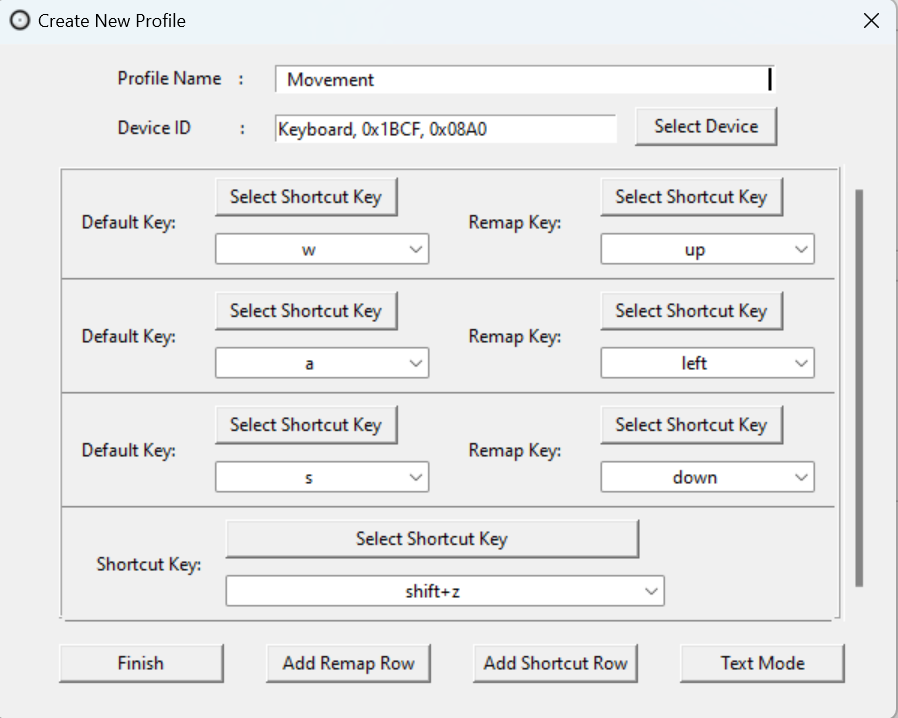
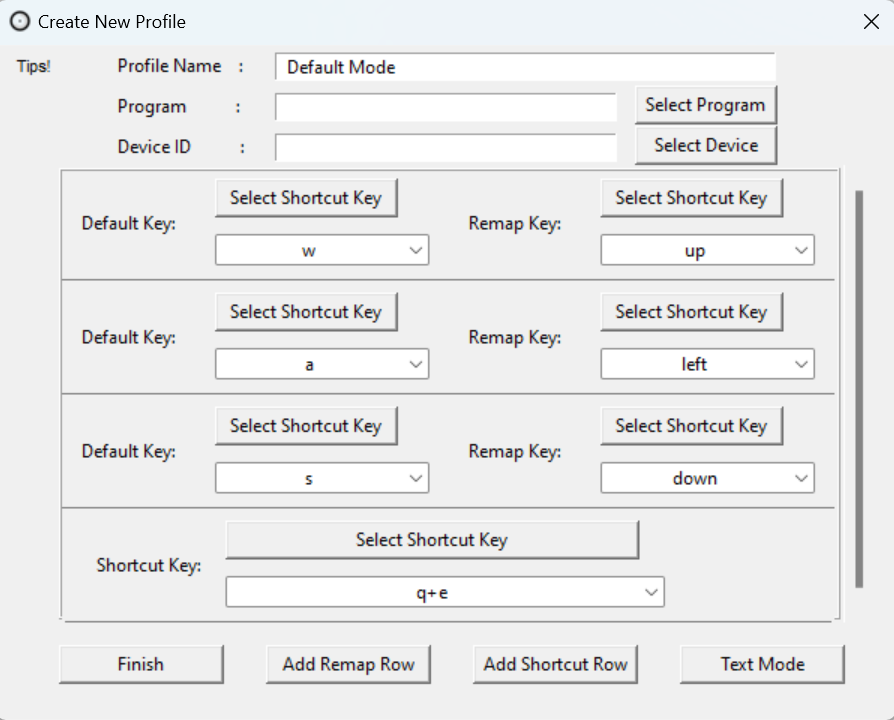
Update 2025-01-04

diff --git a/introduction/features/index.html b/introduction/features/index.html
@@ -408,8 +408,72 @@
 </div>
 
         
+        <div class="l-post__toc toc" aria-labelledby="toc-title">
+            <section class="toc" aria-labelledby="toc-title">
+                <h3 class="toc__title" id="toc-title">On this page</h3>
+                <nav class="toc__navigation"><nav class="toc" >
+        <ol><li><a href="#key-features">Key Features</a></li><li><a href="#additional-feature">Additional Feature</a></li></ol>
+      </nav></nav>
+            </section>
+        </div>
+        
         <div class="l-post__content post-content">
             <p>KeyTik comes packed with a wide range of features to give you ultimate control over your profiles and input. Here is KeyTik features:</p>
+<h2 id="key-features" tabindex="-1">Key Features <a class="anchor" href="#key-features">#</a></h2>
+<p>Below is KeyTik key features that make KeyTik different than another automation tool:</p>
+<table>
+<thead>
+<tr>
+<th><strong>No</strong></th>
+<th><strong>Feature</strong></th>
+<th><strong>Description</strong></th>
+</tr>
+</thead>
+<tbody>
+<tr>
+<td>1</td>
+<td><strong>Multiple Keyboard Remap Profile</strong></td>
+<td>Not like most of keyboard remapper, KeyTik can handle multiple keyboard remap. You don't have to set remap again when you need to use another remap then set it back again after done. Just create multiple remap and activate or deactivate it whenever you want.</td>
+</tr>
+<tr>
+<td>1</td>
+<td><strong>Advance Keyboard Remap</strong></td>
+<td>Keyboard remap not only able to remap single key but also key combination and text or typing (Example: Clicking 's' will type 'Select&quot;).</td>
+</tr>
+<tr>
+<td>2</td>
+<td><strong>Assign Script or Remap Profile to Specific Keyboard or Mouse Using Device VID &amp; PID or Device Handle</strong></td>
+<td>Make script or remap profile to only work for specific physical keyboard or mouse using device VID &amp; PID or device handle as identifier.</td>
+</tr>
+<tr>
+<td>3</td>
+<td><strong>Assign Script or Remap Profile to Specific Programs Using Class or Process</strong></td>
+<td>Make script or remap profile to only work for specific programs class, like specific Chrome tab or entire program.</td>
+</tr>
+<tr>
+<td>3</td>
+<td><strong>Auto Clicker</strong></td>
+<td>KeyTik comes with Auto Clicker in the download. On default, it simulate 'left click' when 'e' is held. You can change the 'left click', 'e', interval part to your preference.</td>
+</tr>
+<tr>
+<td>4</td>
+<td><strong>Screen Clicker</strong></td>
+<td>KeyTik also comes with Screen Clicker in the download. It work with simulate 'left click' on specific screen coordinate. You can change coordinate and interval to your preference. Don't worry because KeyTik also comes with tool to find screen coordinate then it will automatically copy coordinate and you can paste it to screen clicker in text mode, see point 16.</td>
+</tr>
+<tr>
+<td>5</td>
+<td><strong>Screen Coordinate Auto Detect And Copy</strong></td>
+<td>To make screen clicker editing easier, KeyTik also comes with coordinate finder. On default, you just need to press 'space' then it will show coordinate and automatically copy it. You can also change 'space' part to your preference.</td>
+</tr>
+<tr>
+<td>6</td>
+<td><strong>Multiple Files Opener</strong></td>
+<td>Multiple files opener also comes with KeyTik download. It work with, if you click key or key combination, then it will open the files. You can change the files with your files or programs path to your preference.</td>
+</tr>
+</tbody>
+</table>
+<h2 id="additional-feature" tabindex="-1">Additional Feature <a class="anchor" href="#additional-feature">#</a></h2>
+<p>Below is another KeyTik feature to increase user experience and give ultimate control over each profiles:</p>
 <table>
 <thead>
 <tr>
@@ -446,68 +510,38 @@
 </tr>
 <tr>
 <td>6</td>
-<td><strong>Create Multiple Remap Profile</strong></td>
-<td>You can create remap not only once but multiple time.</td>
-</tr>
-<tr>
-<td>7</td>
 <td><strong>Assign Shortcut on Each Profile</strong></td>
 <td>Enable or Disable your profile using shortcuts.</td>
 </tr>
 <tr>
-<td>8</td>
+<td>7</td>
 <td><strong>Default Mode in Create or Edit Profile</strong></td>
 <td>The easiest way to remap your keyboard.</td>
 </tr>
 <tr>
-<td>9</td>
+<td>8</td>
 <td><strong>Text Mode in Create or Edit Profile</strong></td>
 <td>Text Mode allows you to adjust or create your AutoHotkey script easily, without needing an external editor.</td>
 </tr>
 <tr>
-<td>10</td>
+<td>9</td>
 <td><strong>Make Window Always on Top</strong></td>
 <td>&quot;Always on top&quot; feature lets you easily remap keys while other windows are open, without minimizing KeyTik window. This is especially useful during gaming.</td>
 </tr>
 <tr>
-<td>11</td>
+<td>10</td>
 <td><strong>Show Stored Profile</strong></td>
 <td>Display your stored profile or restore it to main window.</td>
 </tr>
 <tr>
-<td>12</td>
+<td>11</td>
 <td><strong>Import Profile</strong></td>
 <td>Use AutoHotkey script from external source like download and make it as profile.</td>
 </tr>
 <tr>
-<td>13</td>
+<td>12</td>
 <td><strong>Automatically Take Key Input</strong></td>
 <td>A button that can make you click your desired key and it will automatically fill key entry</td>
-</tr>
-<tr>
-<td>14</td>
-<td><strong>Auto Clicker</strong></td>
-<td>KeyTik comes with Auto Clicker in the download. On default, it simulate 'left click' when 'e' is held. You can change the 'left click', 'e', interval part to your preference. See <a href="/additional-information/automation-tool-customization/#auto-clicker/">Auto Clicker Customization Section</a> for more info.</td>
-</tr>
-<tr>
-<td>15</td>
-<td><strong>Screen Clicker</strong></td>
-<td>KeyTik also comes with Screen Clicker in the download. It work with simulate 'left click' on specific screen coordinate. You can change coordinate and interval to your preference. Don't worry because KeyTik also comes with tool to find screen coordinate then it will automatically copy coordinate and you can paste it to screen clicker in text mode, see point 16. see <a href="/additional-information/automation-tool-customization/#screen-clicker/">Screen Clicker Customization Section</a> for more info.</td>
-</tr>
-<tr>
-<td>16</td>
-<td><strong>Screen Coordinate Auto Detect And Copy</strong></td>
-<td>To make screen clicker editing easier, KeyTik also comes with coordinate finder. On default, you just need to press 'space' then it will show coordinate and automatically copy it. You can also change 'space' part to your preference. See <a href="/additional-information/automation-tool-customization/#screen-coordinate-auto-detect-and-copy">Screen Coordinate Auto Detect And Copy Customization Section</a> for more info.</td>
-</tr>
-<tr>
-<td>17</td>
-<td><strong>Multiple Files Opener</strong></td>
-<td>Multiple files opener also comes with KeyTik download. It work with, if you click key or key combination, then it will open the files. You can change the files with your files or programs path to your preference. see <a href="/additional-information/automation-tool-customization/#multiple-files-opener">Multiple Files Opener Customization Section</a> for more info.</td>
-</tr>
-<tr>
-<td>18</td>
-<td><strong>Assign Script or Remap Profile to Specific Keyboard or Mouse Using Device VID &amp; PID or Device Handle</strong></td>
-<td>Make script or remap profile to only work for specific physical keyboard or mouse using device VID &amp; PID or device handle as identifier. It work using help from <a href="https://github.com/evilC/AutoHotInterception">AutoHotkey Interception by evilC</a> and <a href="https://github.com/oblitum/Interception">Interception driver by oblitum</a>.</td>
 </tr>
 </tbody>
 </table>

diff --git a/changelog/index.html b/changelog/index.html
@@ -401,6 +401,34 @@
         <div class="l-list__inner l-list__inner--changelog">
             
                 <div class="changelog-item">
+                    <time datetime="2025-01-04T00:00:00.000Z" class="changelog-item__date">January 04, 2025</time>
+                    <div class="changelog-item__body post-content">
+                        <h2 class="changelog-item__title">v1.6.0</h2>
+                        <ul>
+                            
+                                <li><p>Add functionality to remap key to text (Example: Clicking 's' will type 'Select').</p>
+</li>
+                            
+                                <li><p>Add functionality to remap on specific program using class and process. Class is program specific (Example: Specific Chrome Tab [YouTube Tab - Chrome_WidgetWin_1]). Process is entire program (Example: Chrome [chrome.exe]).</p>
+</li>
+                            
+                                <li><p>Device selection is using handle instead of VID or PID for more robust binding (Example Handle: HID/VID_1BCF&amp;PID_08A0&amp;REV_0104&amp;Col02).</p>
+</li>
+                            
+                                <li><p>Fix key combination on remap key.</p>
+</li>
+                            
+                                <li><p>Add (Tips!) for helper.</p>
+</li>
+                            
+                                <li><p>Change KeyTik Official Website domain to: https://keytik.com.</p>
+</li>
+                            
+                        </ul>
+                    </div>
+                </div>
+            
+                <div class="changelog-item">
                     <time datetime="2024-12-15T00:00:00.000Z" class="changelog-item__date">December 15, 2024</time>
                     <div class="changelog-item__body post-content">
                         <h2 class="changelog-item__title">v1.5.0</h2>

diff --git a/index.html b/index.html
@@ -417,11 +417,14 @@
                 <h2>Preview</h2>
                 <div class="screenshot-preview">
                     <div class="slideshow-container">
-                        <img src="/img/Picture/main.png" alt="Preview Main" />
-<img src="/img/Picture/default mode.png" alt="Default Mode" />
-<img src="/img/Picture/dropdown.png" alt="Dropdown" />
-<img src="/img/Picture/text mode.png" alt="Preview Text Mode" />
-<img src="/img/Picture/select_device.png" alt="Select Device" />
+                        <img src="/img/Picture/Profile Manager.png" alt="Main Profile Manager"/>
+<img src="/img/Picture/default mode.png" alt="Default Mode"/>
+<img src="/img/Picture/text mode.png" alt="Text Mode"/>
+<img src="/img/Picture/Programs and Devices Example.png" alt="Programs and Devices Example"/>
+<img src="/img/Picture/Select Device.png" alt="Select Device"/>
+<img src="/img/Picture/Select Programs.png" alt="Select Programs.png"/>
+<img src="/img/Picture/Key Format Example.png" alt="Key Format Example"/>
+<img src="/img/Picture/Drop Down.png" alt="Drop Down"/>
 
                     </div>
                     <div class="navigation-buttons">
